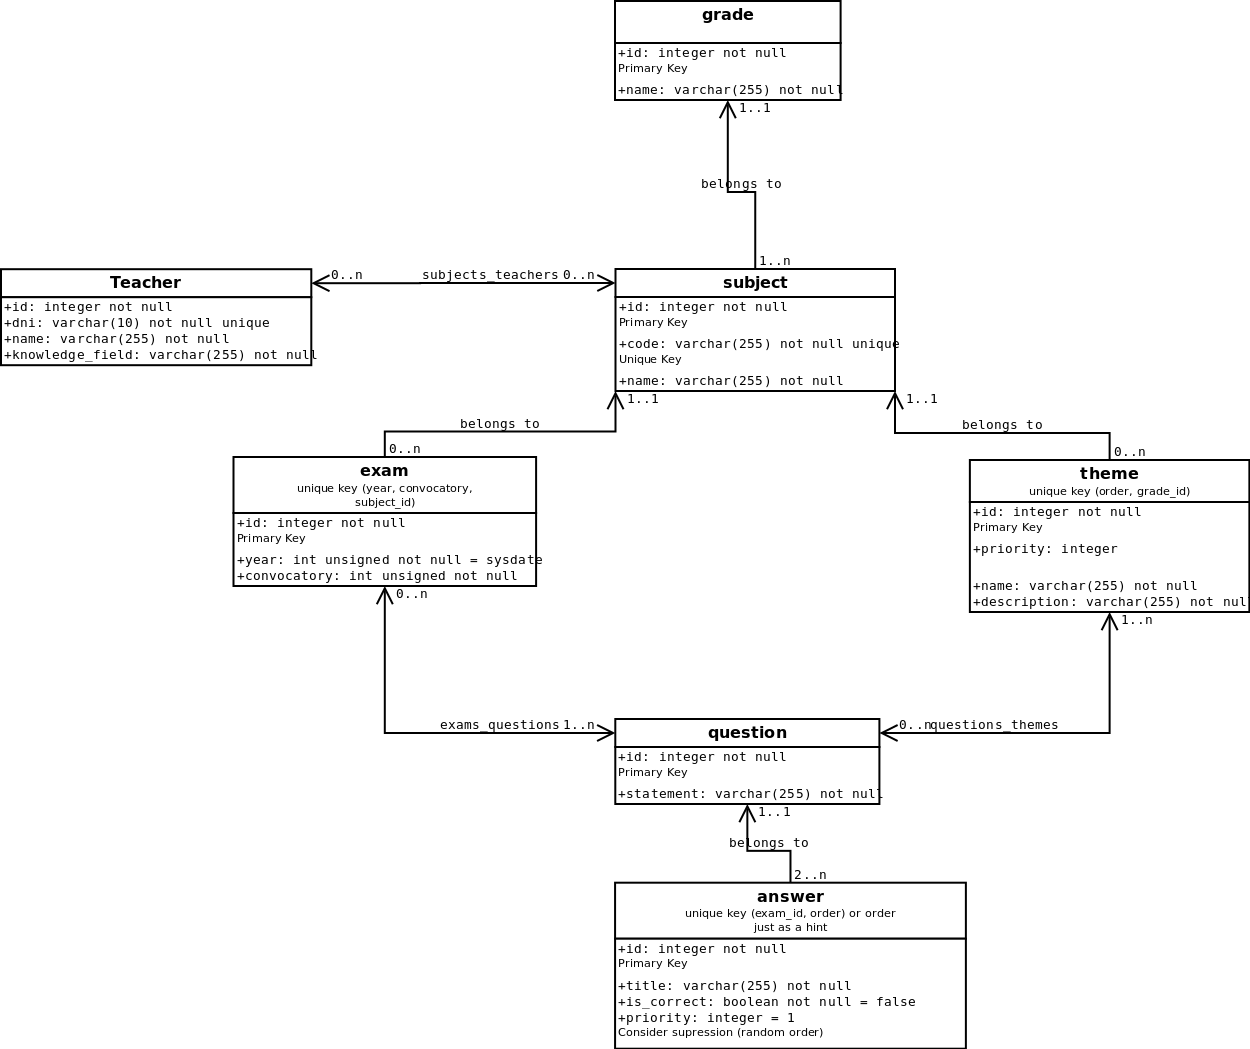
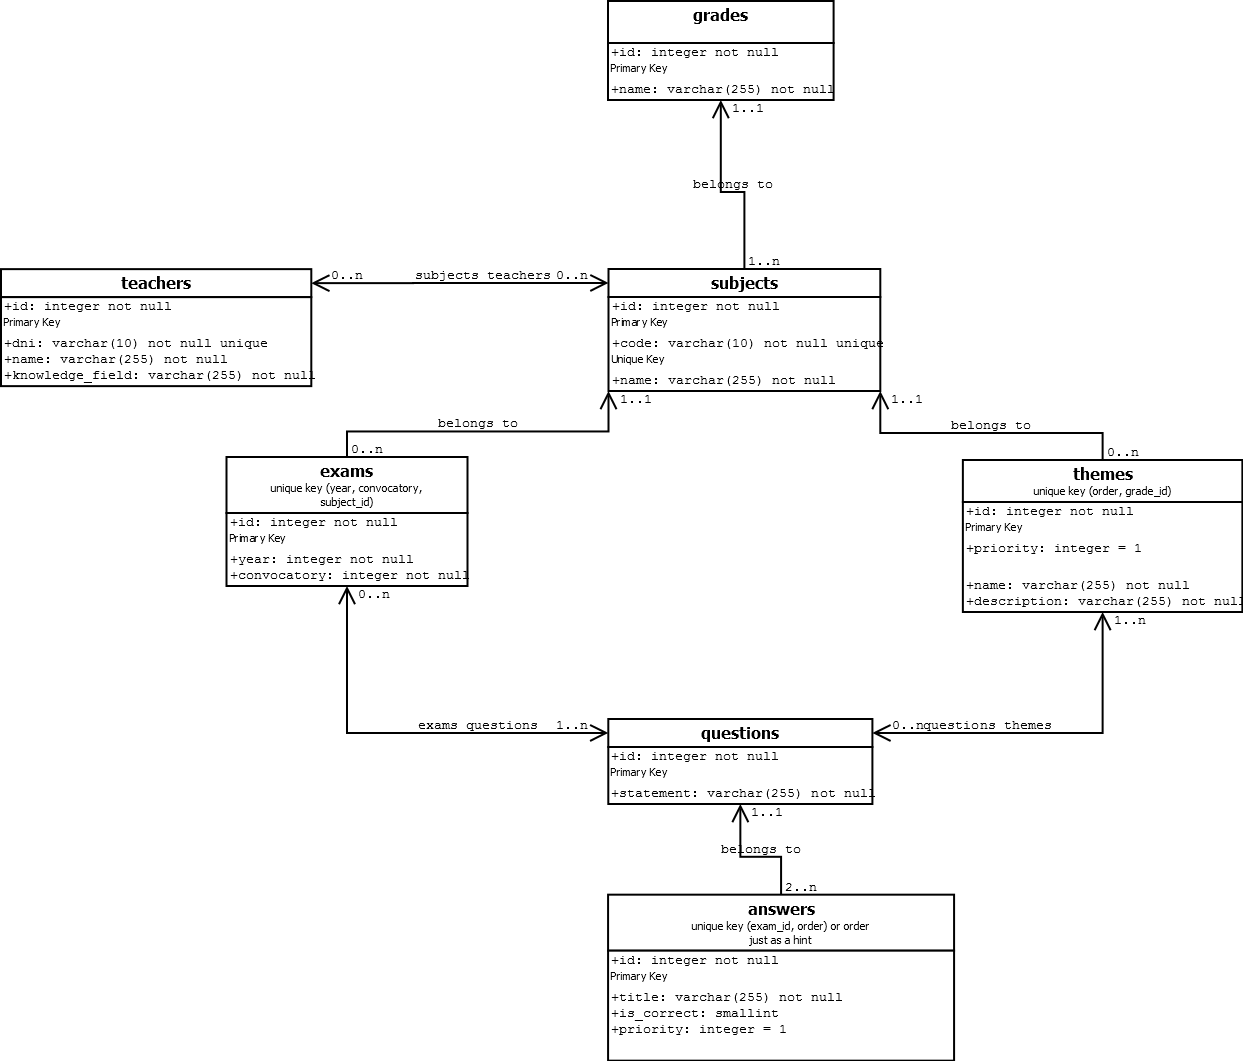
Doc refactoring, schema update

diff --git a/doc/docs.es.md b/doc/docs.es.md
@@ -103,26 +103,9 @@ Se puede apreciar en la ayuda de los comandos que hay funcionalidad no requerida
 
 No se han hecho entradas interactivas de algunas de ellas por cuestión de tiempo.
 
-# Detalles curiosos
+# Estructura del código
 
-* Se ha evitado el tener que especificar la id al insertar los datos mediante un uso de triggers y secuencias. Los triggers son autogenerados por el script `etc/sql/scripts/generate_triggers.sh`.
-* La vista cuenta los temas que no tienen ninguna pregunta asignada, eso se consigue con una subselect. El rendimiento probablemente sea peor que sin ella, pero tenemos el juego de datos esperado.
-* La documentación se genera automáticamente. Para generarla sólo es necesario usar `make docs` (teniendo `pandoc` y `LaTeX` instalados).
-* Se ha trabajado usando un repositorio `git`. Probablemente el código sea liberado tras el plazo de entrega de la práctica en [éste repositorio](http://github.com/ecoal95/dbs-2015).
-
-# Estructura del código SQL
-
-El código sql se encuentra en la carpeta `etc/sql/`. Bajo el directorio `etc/sql/src/` se encuentran:
- * `schema.sql`: El esquema de la base de datos.
- * `derived_and_triggers.sql`: El atributo derivado y los triggers necesarios para gestionarlo automáticamente.
- * `seeds.sql`: Inserción de valores de prueba de la base de datos.
- * `view.sql`: La vista requerida por el enunciado.
- * `oracle-drops.sql`: Drops de las tablas en *Oracle* (en *PostgreSQL* borramos la base de datos directamente).
-
-**Nota**: El esquema de la bd varía un poco con respecto al propuesto. Cada tema pertenece exclusivamente a una asignatura, y en vez de forzar órdenes, usamos un campo `priority`, que es más flexible. Se puede ver la estructura en el esquema de la carpeta `doc/`
-
-
-# Estructura del código C
+## C
 
 El código C relativo a la funcionalidad está todo en el directorio `src/`. El programa está organizado por subcomandos, declarados todos en el fichero principal `app.sc`:
 
@@ -172,6 +155,24 @@ Es equivalente a ejecutar:
 ```
 $ ./target/app question -l
 ```
+
+## SQL
+
+El código sql se encuentra en la carpeta `etc/sql/`. Bajo el directorio `etc/sql/src/` se encuentran:
+ * `schema.sql`: El esquema de la base de datos.
+ * `derived_and_triggers.sql`: El atributo derivado y los triggers necesarios para gestionarlo automáticamente.
+ * `seeds.sql`: Inserción de valores de prueba de la base de datos.
+ * `view.sql`: La vista requerida por el enunciado.
+ * `oracle-drops.sql`: Drops de las tablas en *Oracle* (en *PostgreSQL* borramos la base de datos directamente).
+
+**Nota**: El esquema de la bd varía un poco con respecto al propuesto. Cada tema pertenece exclusivamente a una asignatura, y en vez de forzar órdenes, usamos un campo `priority`, que es más flexible. Se puede ver la estructura en el esquema de la carpeta `doc/`
+
+# Detalles curiosos
+
+* Se ha evitado el tener que especificar la id al insertar los datos mediante un uso de triggers y secuencias. Los triggers son autogenerados por el script `etc/sql/scripts/generate_triggers.sh`.
+* La vista cuenta los temas que no tienen ninguna pregunta asignada, eso se consigue con una subselect. El rendimiento probablemente sea peor que sin ella, pero tenemos el juego de datos esperado.
+* La documentación se genera automáticamente. Para generarla sólo es necesario usar `make docs` (teniendo `pandoc` y `LaTeX` instalados).
+* Se ha trabajado usando un repositorio `git`. Probablemente el código sea liberado tras el plazo de entrega de la práctica en [éste repositorio](http://github.com/ecoal95/dbs-2015).
 
 # Capturas de pantalla
 
